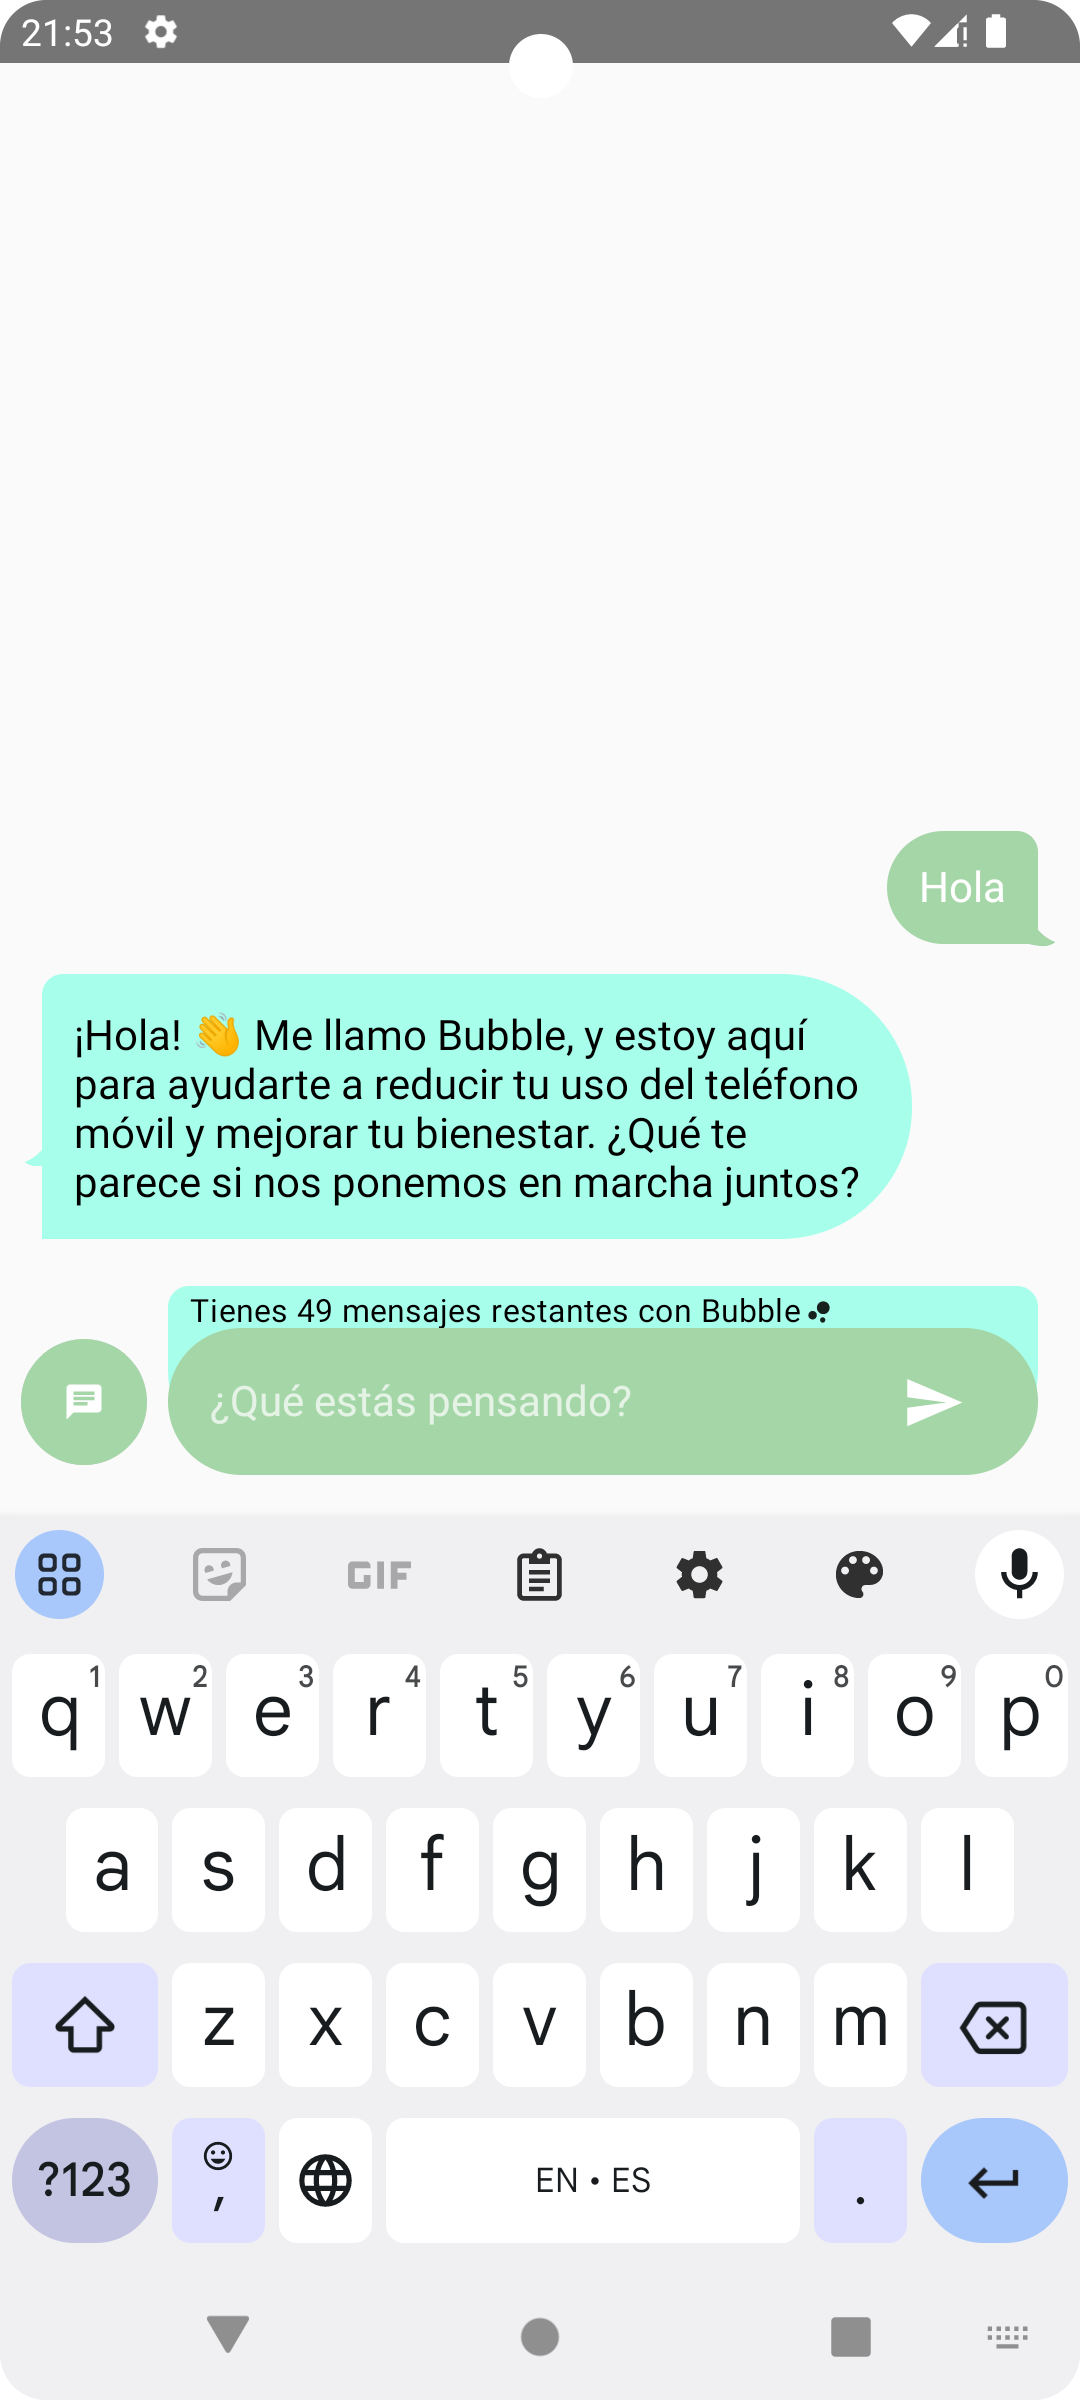
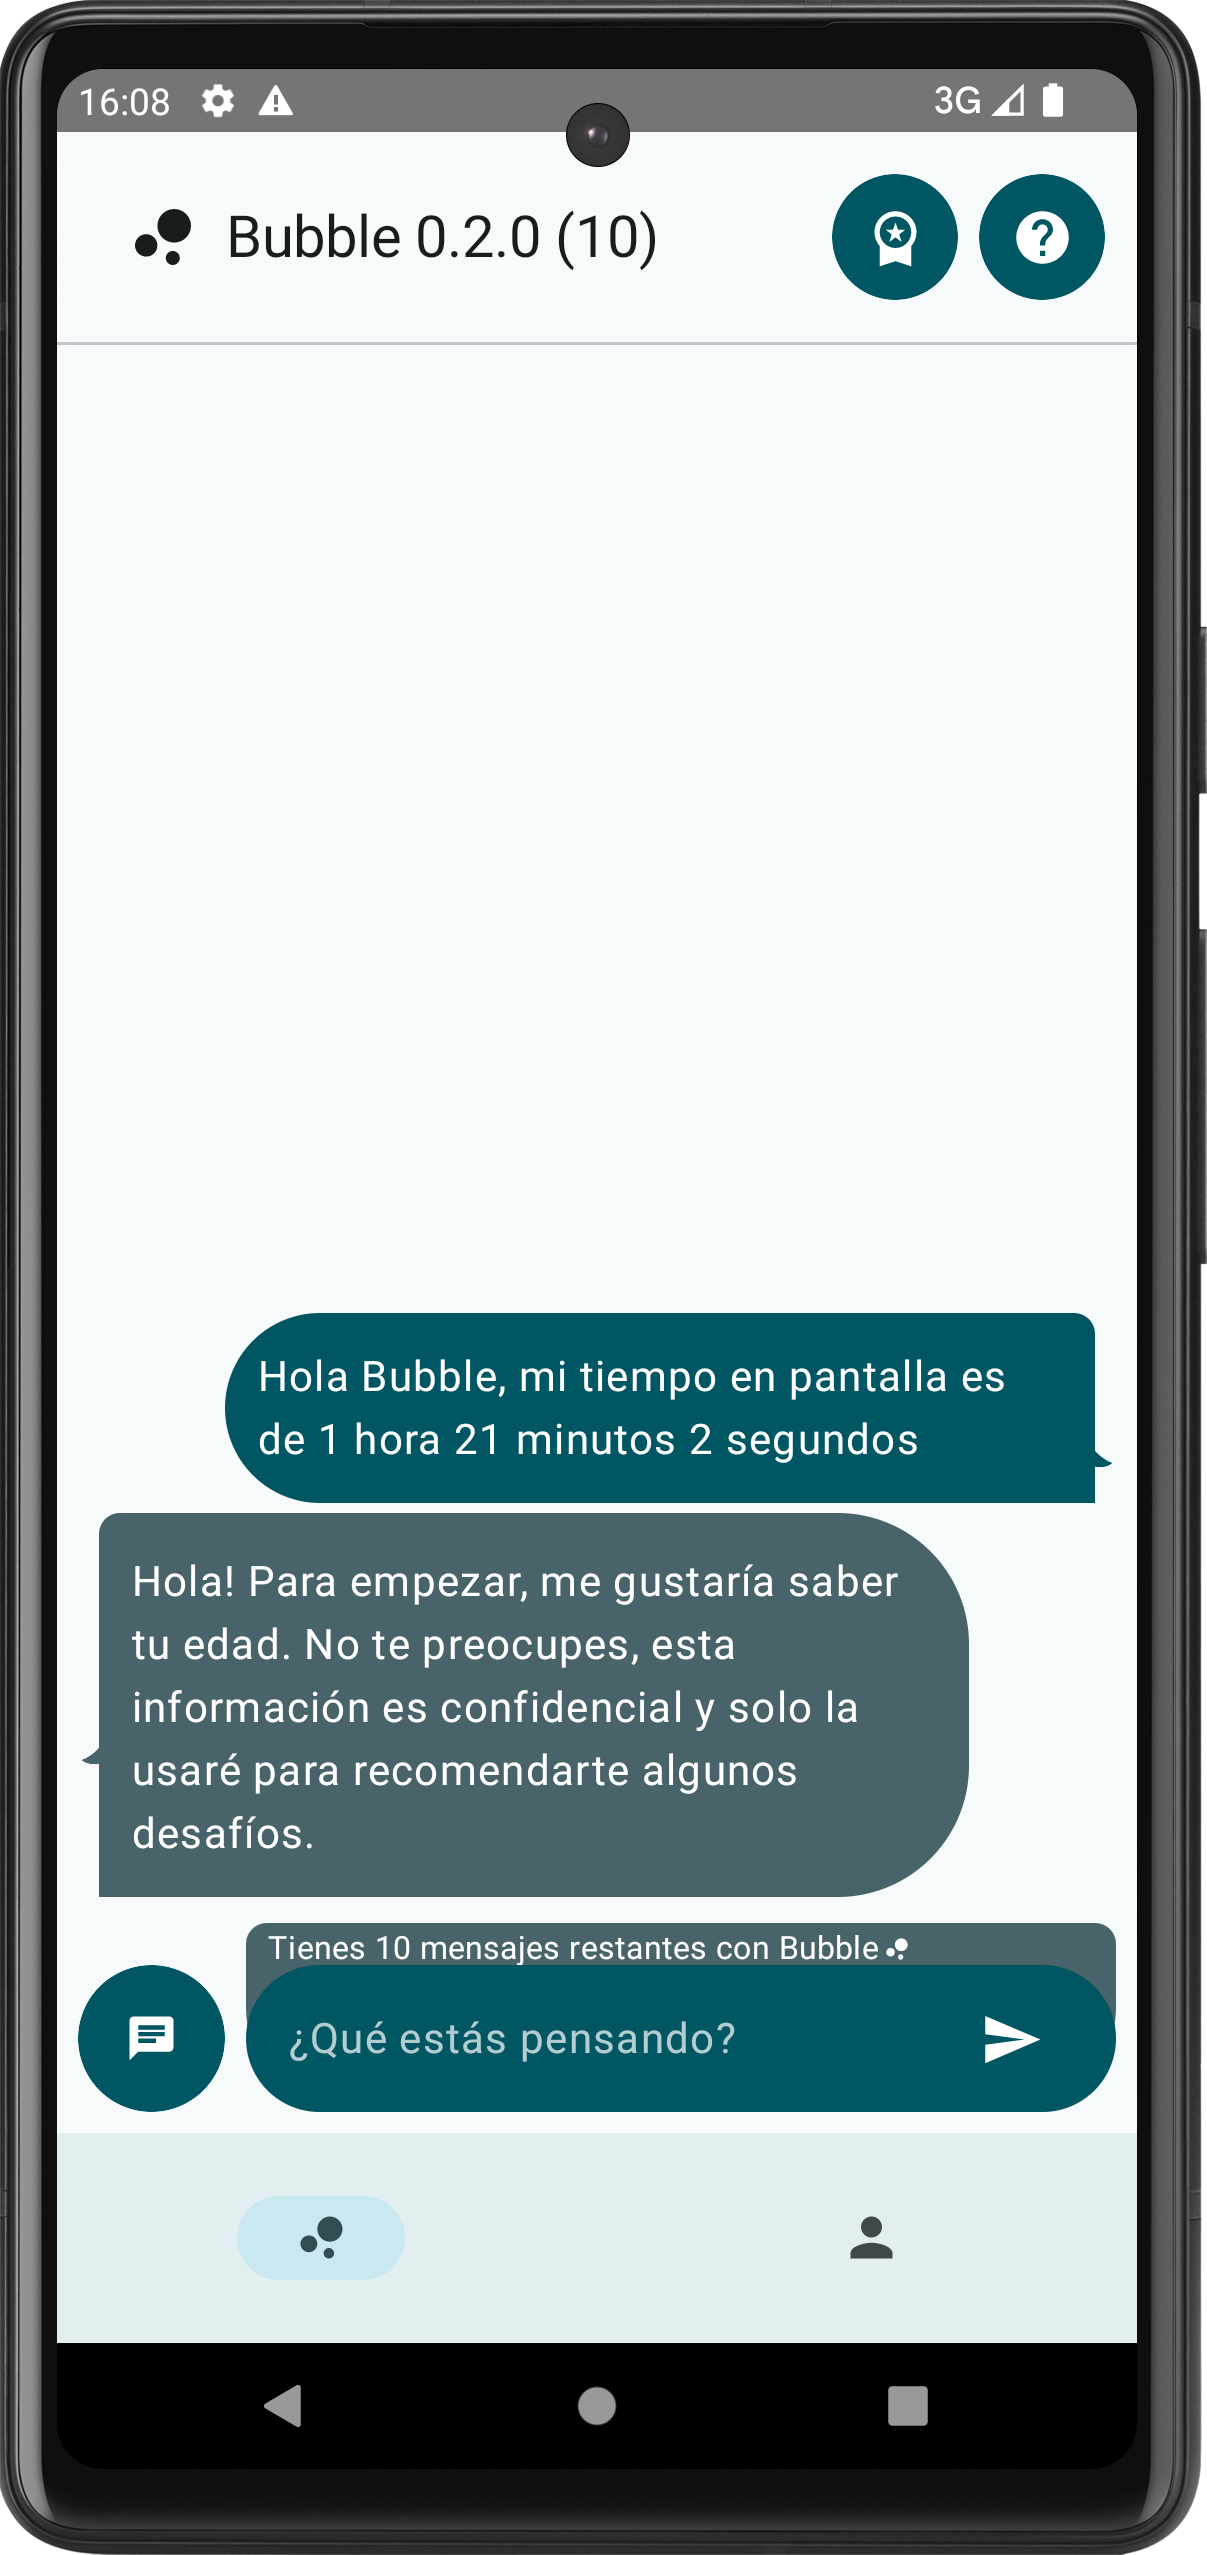
Version updated to 0.2.0

diff --git a/composeApp/src/commonMain/kotlin/data/remote/ChatAPI.kt b/composeApp/src/commonMain/kotlin/data/remote/ChatAPI.kt
@@ -140,6 +140,20 @@ fun systemInstructions(): String = """
 
     Estas acciones, combinadas, pueden ser efectivas para ayudar a las personas a reducir el tiempo que pasan frente a sus pantallas.
     
+    Debes identificar los rangos de tiempo en pantalla saludables de acuardo a la edad del usuario.
+    
+    Aquí tienes algunos rangos basados en estudios y recomendaciones generales:
+
+	1.	Niños menores de 2 años: Se recomienda evitar el tiempo en pantalla excepto para videollamadas con familiares y amigos.
+	2.	Niños de 2 a 5 años: Se sugiere limitar el tiempo en pantalla a 1 hora por día de contenido de alta calidad.
+	3.	Niños de 6 a 12 años: Se recomienda que el tiempo en pantalla no exceda las 1-2 horas diarias de contenido recreativo.
+	4.	Adolescentes (13-18 años): Se aconseja limitar el tiempo en pantalla recreativo a menos de 2 horas diarias. Sin embargo, algunos estudios indican que un tiempo en pantalla de hasta 3 horas puede ser aceptable siempre que no interfiera con el sueño, la actividad física y otras actividades esenciales.
+	5.	Adultos: No hay un consenso específico para adultos, pero se sugiere que el tiempo en pantalla recreativo también se limite a aproximadamente 2 horas diarias, especialmente para reducir los riesgos de problemas de salud física y mental. Es importante equilibrar el tiempo en pantalla con actividad física y otras actividades no sedentarias.
+
+    Sólo sugiere retos a los usuarios que no tengan un promedio de tiempo en pantalla saludable.
+    
+    Debes identificar la edad del usuario informando que esto no se compartirá con nadie.
+    
     Debes justificar la razón para sugerir cada reto.
     
     Es ESTRICTAMENTE NECESARIO que respondas con el siguiente formato JSON sin ninguna otra información,
@@ -147,7 +161,7 @@ fun systemInstructions(): String = """
     símbolo "}":
 
     message: Tu respuesta en texto plano de tipo String
-    challenge: Un objeto JSON con los siguientes campos:
+    challenge: Un objeto JSON que puede ser nulo con los siguientes campos:
         id: El ID del reto de tipo Int
         title: El título del reto de tipo String
         description: La descripción del reto de tipo String

diff --git a/composeApp/src/commonMain/kotlin/presentation/screen/MainScreen.kt b/composeApp/src/commonMain/kotlin/presentation/screen/MainScreen.kt
@@ -26,7 +26,7 @@ object MainScreen : Screen {
 
     @Composable
     override fun Content() {
-        TabNavigator(ProfileTab) { tabNavigator: TabNavigator ->
+        TabNavigator(BubbleTab) { tabNavigator: TabNavigator ->
             Scaffold(
                 topBar = {
                     BubbleTopAppBar()
